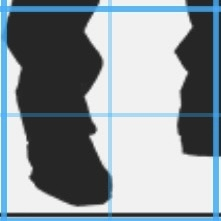
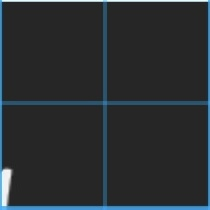
画像検索に1マス表示を追加

diff --git a/src/App.tsx b/src/App.tsx
@@ -34,6 +34,9 @@ export default function App() {
   // 検索欄の入力内容
   const [searchQuery, setSearchQuery] = useState("");
 
+// 画像検索のサムネイル表示（false：画像b、true：画像a）
+const [showImageA, setShowImageA] = useState(false);
+
 // 画像のタグによる絞り込み
 const [imageTagFilter, setImageTagFilter] = useState<
   "all" | "A-E" | "F-K"
@@ -225,6 +228,14 @@ const searchResults = normalizedQuery
           previous === "F-K" ? "all" : "F-K"
         );
       }
+
+// Ctrl + →：画像a / 画像bを切り替える
+if (event.key === "ArrowRight") {
+  event.preventDefault();
+
+  setShowImageA((previous) => !previous);
+}
+
     }
 
     window.addEventListener("keydown", handleFilterShortcut);
@@ -436,6 +447,17 @@ useEffect(() => {
   >
     下半身のみ
   </button>
+
+<button
+  type="button"
+  className={
+    showImageA ? "filter-button active" : "filter-button"
+  }
+  aria-pressed={showImageA}
+  onClick={() => setShowImageA((previous) => !previous)}
+>
+  1マス表示
+</button>
 </div>
 
           <>
@@ -455,7 +477,11 @@ useEffect(() => {
                       aria-label={`${image.alt}を拡大表示`}
                     >
                       <img
-                        src={getImageBUrl(image.src) ?? getImageUrl(image.src)}
+src={
+  showImageA
+    ? getImageUrl(image.src)
+    : getImageBUrl(image.src) ?? getImageUrl(image.src)
+}
                         alt={image.alt}
                         loading="lazy"
                       />
